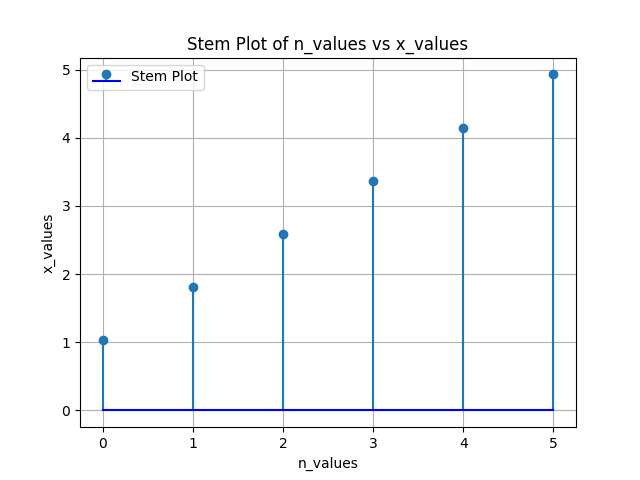
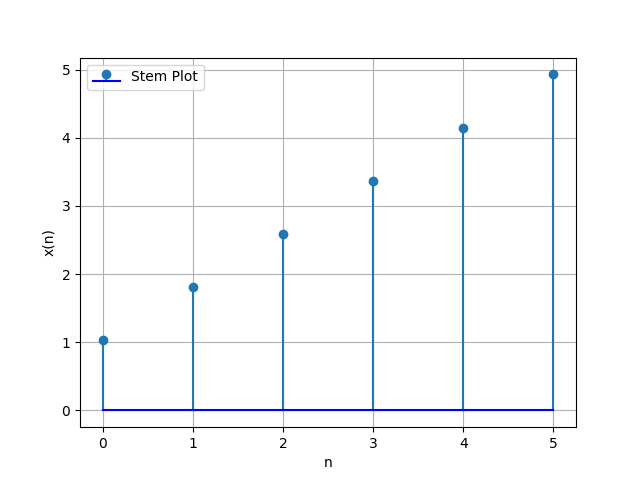
Add files via upload

diff --git a/a3/codes/python.py b/a3/codes/python.py
@@ -11,9 +11,8 @@ x_values = data[:, 1]
 # Create a stem plot
 plt.stem(n_values, x_values, linefmt='|', markerfmt='o', basefmt='b', label='Stem Plot')
 
-plt.xlabel('n_values')
-plt.ylabel('x_values')
-plt.title('Stem Plot of n_values vs x_values')
+plt.xlabel('n')
+plt.ylabel('x(n)')
 plt.grid(True)
 plt.legend()
 plt.savefig('../figs/fig1.png')
